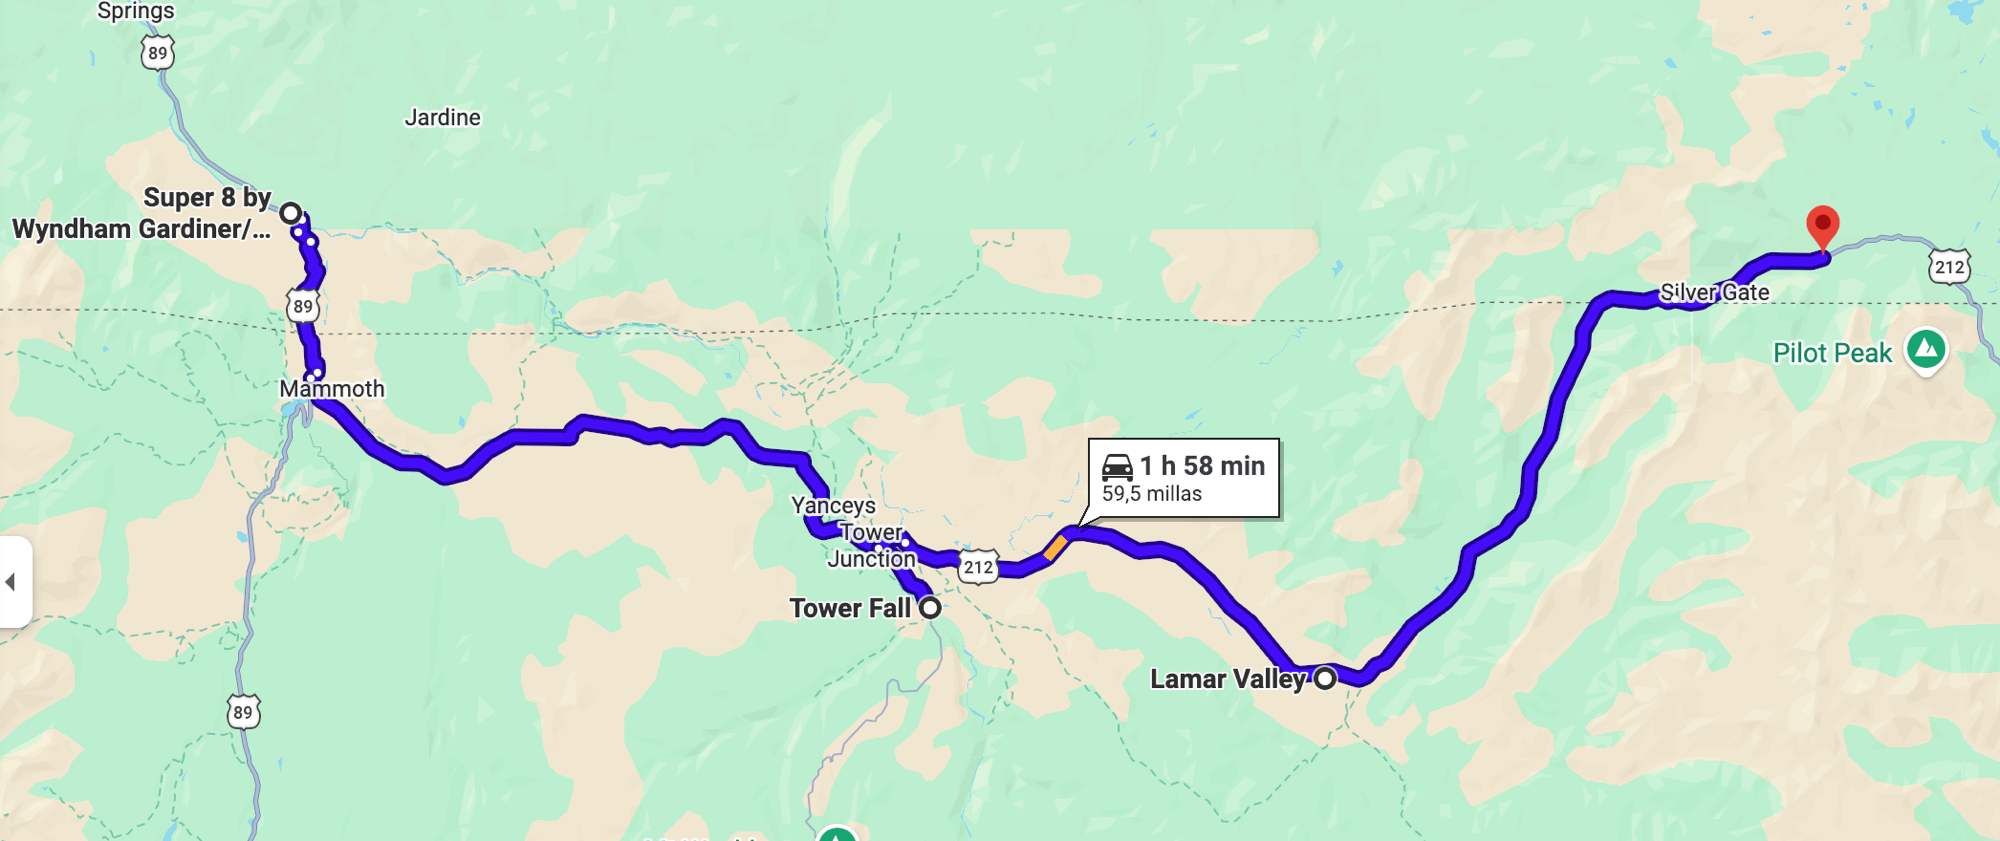
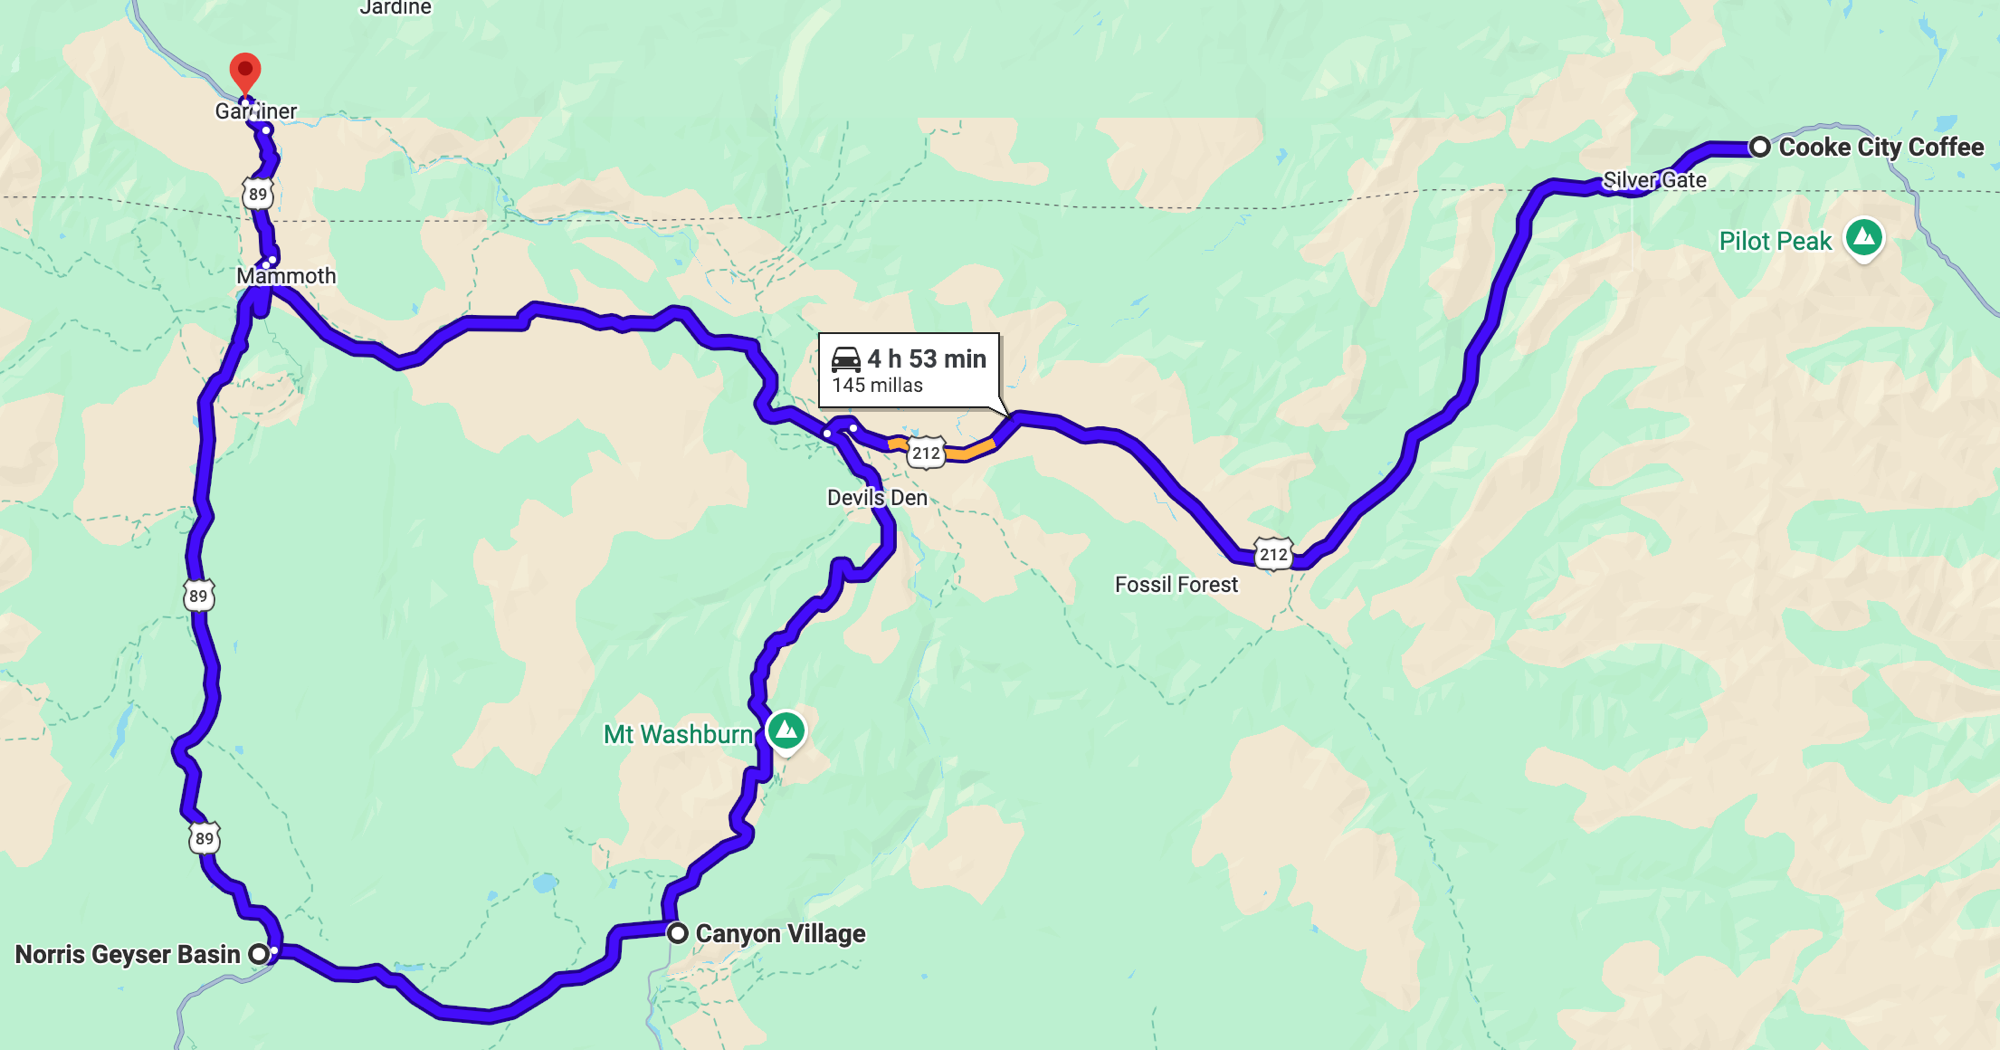
Yellowstone Día 13: nueva imagen loop completo + revertir estructura modal
- yw-dia13-map.png: loop completo (Gardiner→Cooke City→Canyon→Norris→Gardiner, 145 mi, 4h53min)
- Modal: revertir a 3 días (Día 12 / Día 13 / Día 14)
- Día 13: texto actualizado con millas y tiempo reales del loop
- Día 14 permanece como salida a Jackson

diff --git a/yellowstone_mapa.html b/yellowstone_mapa.html
@@ -728,25 +728,16 @@ document.addEventListener('keydown', e => { if (e.key === 'Escape') closeRutas()
         <div class="rutas-day-bar" style="background:#06b6d4"></div>
         <div>
           <div class="rutas-day-title" style="color:#67e8f9">Día 13 — Northern Range: Lamar Valley y Cooke City</div>
-          <div class="rutas-day-text">Salida 5:45 AM. <strong>Mammoth</strong> → <strong>Tower Junction</strong> → <strong>Tower Fall</strong> → <strong>Lamar Valley</strong> (lobos, grizzly, pronghorns — ir más allá de Soda Butte Creek) → <strong>Cooke City / Silver Gate</strong>. Regreso: volver vía <strong>Canyon → Norris → Mammoth</strong> (loop completo, ~148 millas). Autos con telescopios en la ruta = siempre frenar. El mapa muestra solo la ruta de ida.</div>
+          <div class="rutas-day-text">Salida 5:45 AM. <strong>Mammoth</strong> → <strong>Tower Junction</strong> → <strong>Tower Fall</strong> → <strong>Lamar Valley</strong> (lobos, grizzly, pronghorns — ir más allá de Soda Butte Creek) → <strong>Cooke City / Silver Gate</strong>. Regreso: volver vía <strong>Canyon → Norris → Mammoth</strong> (loop completo, 145 millas, 4h 53min). Autos con telescopios en la ruta = siempre frenar.</div>
         </div>
       </div>
       <img src="yw-dia13-map.png" style="width:100%;border-radius:10px;display:block;margin-bottom:12px;">
 
       <div class="rutas-day">
-        <div class="rutas-day-bar" style="background:#16a34a"></div>
-        <div>
-          <div class="rutas-day-title" style="color:#86efac">Día 14 — Segunda pasada: Lamar + Hayden Valley + Mud Volcano</div>
-          <div class="rutas-day-text">Segunda y última noche en Gardiner. Amanecer en <strong>Lamar Valley</strong> (segunda pasada = doble de chances con lobos). <strong>Canyon Village</strong> (Artist Point). Tarde larga en <strong>Hayden Valley</strong> — manadas de bisontes, grizzly. <strong>Mud Volcano</strong> al volver hacia el norte. Noche Gardiner.</div>
-        </div>
-      </div>
-      <div style="height:12px;"></div>
-
-      <div class="rutas-day">
         <div class="rutas-day-bar" style="background:#f97316"></div>
         <div>
-          <div class="rutas-day-title" style="color:#fdba74">Día 15 — Salida a Jackson vía Canyon y Hayden</div>
-          <div class="rutas-day-text">Salida ~6 AM. <strong>Gardiner</strong> → <strong>Mammoth</strong> → <strong>Tower Junction</strong> → <strong>Canyon Village</strong> → <strong>Hayden Valley</strong> → <strong>South Entrance</strong> → Grand Teton NP → Jackson. 3h 25min por el parque + ~2h a Jackson. Check-in Rustic Inn.</div>
+          <div class="rutas-day-title" style="color:#fdba74">Día 14 — Canyon, Hayden Valley y salida sur a Jackson</div>
+          <div class="rutas-day-text">Salida ~6 AM. <strong>Mammoth</strong> → <strong>Canyon Village</strong> (Gran Cañón, Artist Point) → <strong>Hayden Valley</strong> (manadas de bisontes, grizzly) → <strong>West Thumb</strong> → <strong>South Entrance</strong> → Grand Teton NP → Jackson al mediodía.</div>
         </div>
       </div>
       <img src="yw-dia14-map.png" style="width:100%;border-radius:10px;display:block;">
